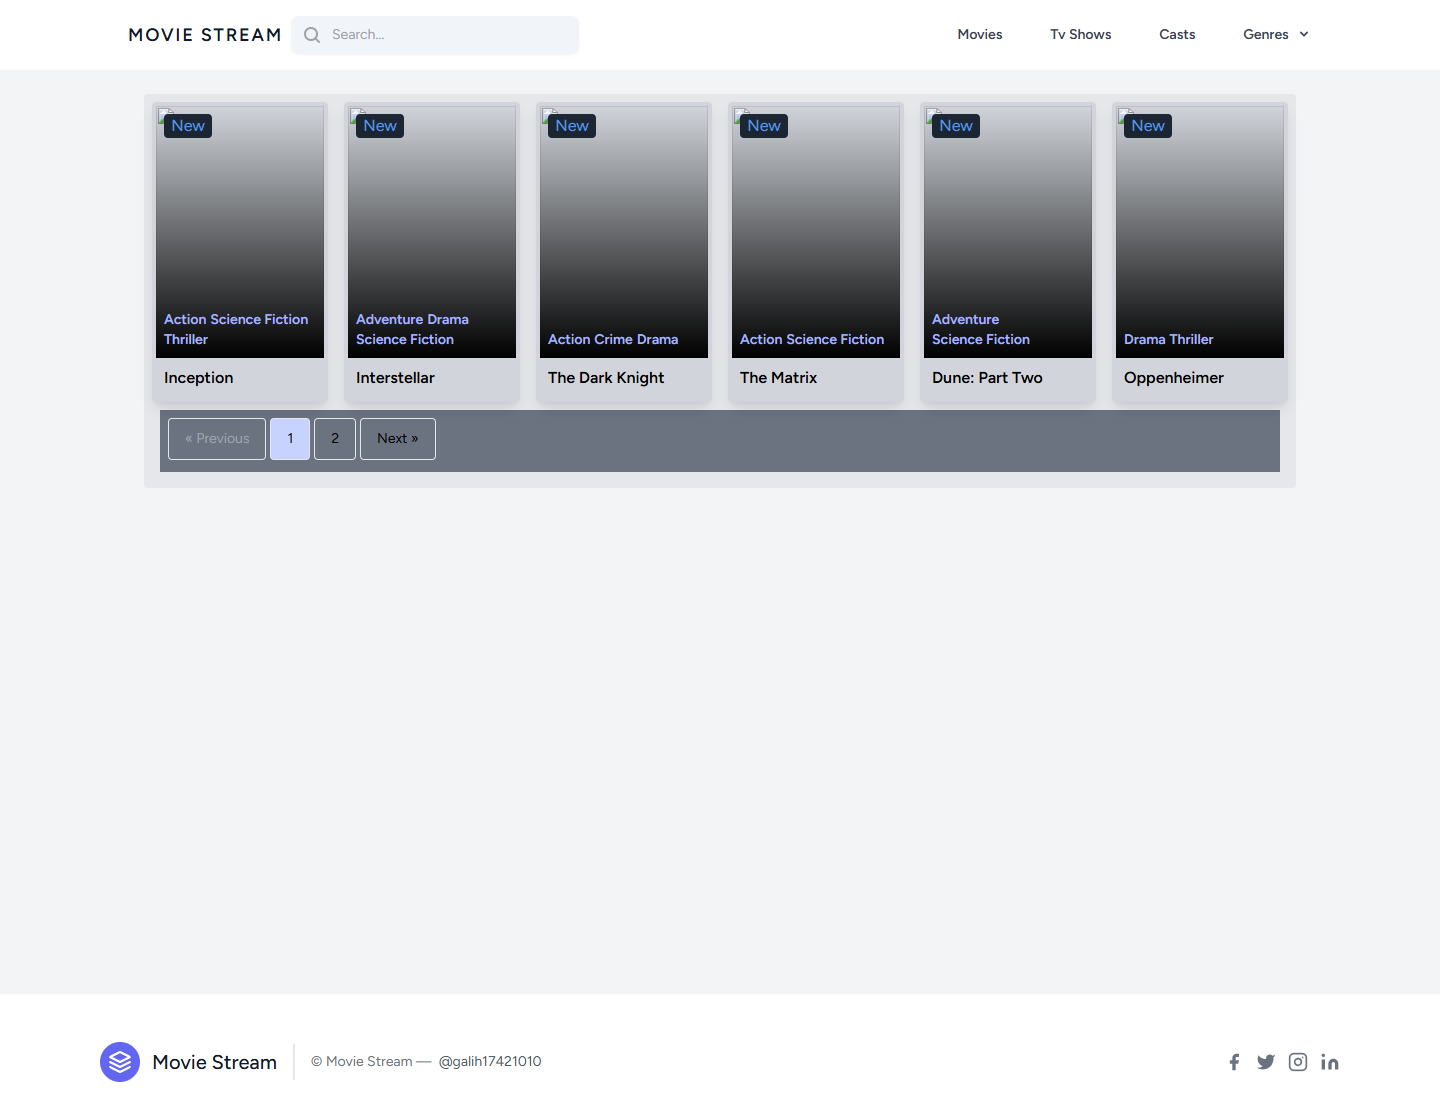
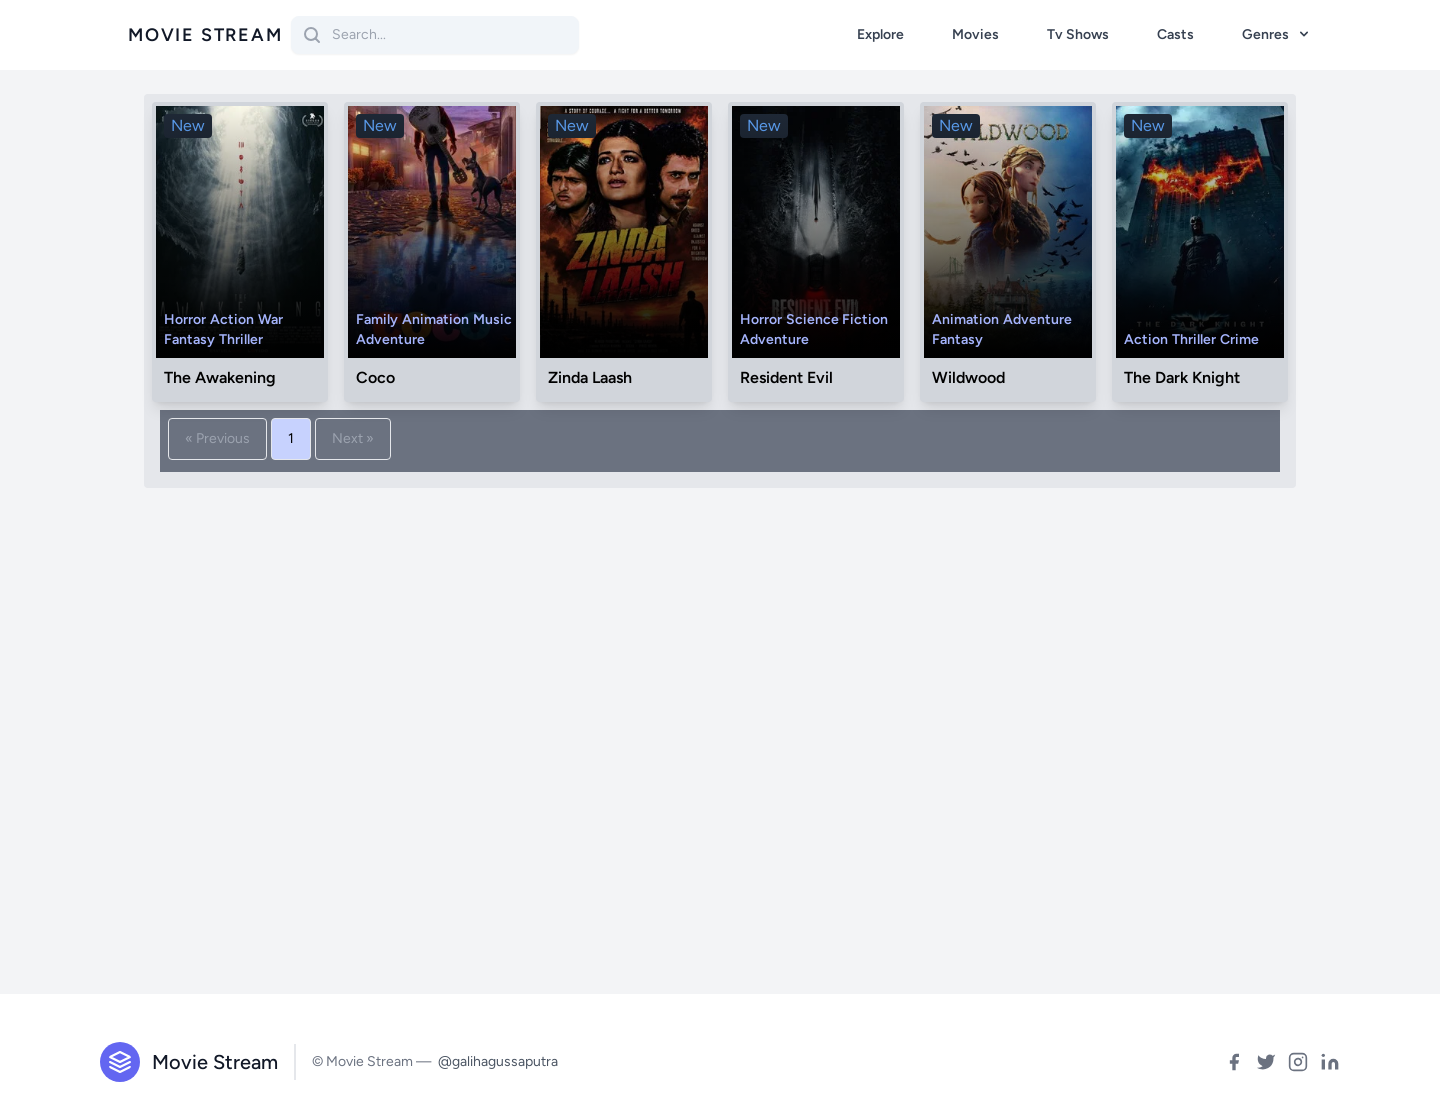
docs: refresh screenshots and document TMDB/Vite setup

diff --git a/README.md b/README.md
@@ -1,6 +1,6 @@
 # MovieStream
 
-MovieStream adalah aplikasi katalog film dan serial TV berbasis web. Aplikasi ini menyediakan halaman publik untuk menjelajahi konten, serta panel admin untuk mengimpor metadata dari TMDB dan mengelola trailer, tautan unduhan, pemeran, genre, dan tag.
+MovieStream adalah aplikasi katalog film dan serial TV berbasis web. Aplikasi ini menyediakan halaman publik untuk menjelajahi konten, halaman **Explore** yang mengambil data langsung (realtime) dari TMDB, serta panel admin untuk mengimpor metadata dari TMDB dan mengelola trailer, tautan unduhan, pemeran, genre, dan tag.
 
 Dibangun dengan **Laravel 10**, **Inertia.js**, **Vue 3**, **Tailwind CSS**, dan **MySQL 8**.
 
@@ -11,6 +11,7 @@ Dibangun dengan **Laravel 10**, **Inertia.js**, **Vue 3**, **Tailwind CSS**, dan
 - [Stack Teknologi](#stack-teknologi)
 - [Menjalankan Aplikasi](#menjalankan-aplikasi)
 - [Konfigurasi Environment](#konfigurasi-environment)
+- [Integrasi TMDB (Realtime)](#integrasi-tmdb-realtime)
 - [Pengujian](#pengujian)
 - [Struktur Proyek](#struktur-proyek)
 - [Keamanan](#keamanan)
@@ -21,7 +22,9 @@ Dibangun dengan **Laravel 10**, **Inertia.js**, **Vue 3**, **Tailwind CSS**, dan
 - Katalog film dan serial TV dengan pencarian, pagination, dan pengurutan.
 - Halaman detail film, serial TV, musim, episode, pemeran, genre, dan tag.
 - Panel admin dengan autentikasi dan otorisasi role `admin`.
-- Impor metadata film, serial TV, musim, episode, pemeran, dan genre dari TMDB.
+- Impor metadata film, serial TV, musim, episode, pemeran, dan genre dari TMDB ke database lokal.
+- Halaman Explore realtime dari TMDB: trending, film populer, serial TV populer, pencarian, detail, trailer, pemeran, dan rekomendasi.
+- Cache respons TMDB untuk mengurangi jumlah request dan mempercepat halaman.
 - Pengelolaan trailer, tautan unduhan, pemeran, genre, dan tag per film.
 - Validasi server-side untuk seluruh input admin.
 - Penghapusan berantai untuk data terkait (season, episode, lampiran, dan pivot).
@@ -30,7 +33,6 @@ Dibangun dengan **Laravel 10**, **Inertia.js**, **Vue 3**, **Tailwind CSS**, dan
 
 ## Tangkapan Layar
 
-> Tangkapan layar menggunakan data demo. Tampilan aktual bergantung pada isi database.
 
 ### Halaman Publik
 
@@ -69,7 +71,7 @@ Dibangun dengan **Laravel 10**, **Inertia.js**, **Vue 3**, **Tailwind CSS**, dan
 
 - [Docker](https://docs.docker.com/get-docker/) dan Docker Compose.
 - Koneksi internet untuk instalasi dependency dan pengambilan gambar dari TMDB.
-- API Key TMDB apabila ingin menggunakan fitur impor konten.
+- TMDB API Read Access Token (v4, disarankan) atau API Key (v3) untuk fitur impor dan Explore realtime.
 
 #### Langkah Menjalankan
 
@@ -86,14 +88,18 @@ Dibangun dengan **Laravel 10**, **Inertia.js**, **Vue 3**, **Tailwind CSS**, dan
    cp .env.example .env
    ```
 
-3. Isi API Key TMDB pada `.env` (opsional, tetapi diperlukan untuk impor konten).
+3. Isi kredensial TMDB pada `.env`. Disarankan memakai **API Read Access Token (v4)** agar autentikasi dikirim melalui header `Authorization: Bearer`.
 
    ```dotenv
-   TMDB_SECRET=api_key_tmdb_anda
+   TMDB_TOKEN=api_read_access_token_v4_anda
+   TMDB_SECRET=
    TMDB_ENDPOINT=https://api.themoviedb.org/3/
+   TMDB_IMAGE_URL=https://image.tmdb.org/t/p/
+   TMDB_LANGUAGE=en-US
+   TMDB_CACHE_TTL=600
    ```
 
-   API Key dapat dibuat melalui [pengaturan API TMDB](https://www.themoviedb.org/settings/api).
+   `TMDB_SECRET` (API Key v3) tetap didukung sebagai fallback jika `TMDB_TOKEN` kosong. Kredensial dapat dibuat melalui [pengaturan API TMDB](https://www.themoviedb.org/settings/api).
 
 4. Jalankan seluruh service.
 
@@ -140,6 +146,41 @@ Dibangun dengan **Laravel 10**, **Inertia.js**, **Vue 3**, **Tailwind CSS**, dan
 
 > **Catatan:** `docker compose down -v` akan menghapus data MySQL yang tersimpan di volume Docker.
 
+#### Troubleshooting Vite di Windows/WSL
+
+Jika browser Windows menampilkan error seperti:
+
+```text
+GET http://0.0.0.0:5173/@vite/client net::ERR_ADDRESS_INVALID
+```
+
+penyebabnya adalah Vite mengiklankan alamat bind `0.0.0.0` ke browser. Konfigurasi proyek sekarang memisahkan alamat bind dan alamat HMR:
+
+- Container tetap listen pada `0.0.0.0:5173` agar port Docker bisa diakses.
+- Browser diarahkan ke `VITE_HMR_HOST` (default `localhost`).
+
+Langkah perbaikan:
+
+1. Pastikan port `5173` dipetakan ke host dan dapat diakses dari Windows.
+2. Jika aplikasi diakses lewat `http://localhost:8000`, biarkan `VITE_HMR_HOST=localhost`.
+3. Jika aplikasi diakses lewat IP WSL (misalnya `http://172.x.x.x:8000`), set `VITE_HMR_HOST` ke IP WSL tersebut pada `.env`.
+4. Recreate container Vite agar file `public/hot` diperbarui.
+
+   ```bash
+   docker compose up -d --force-recreate vite
+   cat public/hot
+   ```
+
+   Isi `public/hot` harus berupa URL yang bisa dibuka browser, misalnya `http://localhost:5173`, bukan `http://0.0.0.0:5173`.
+
+5. Jika masih bermasalah, restart kedua service.
+
+   ```bash
+   docker compose restart vite app
+   ```
+
+
+
 ### Opsi 2: Menjalankan Tanpa Docker
 
 #### Prasyarat
@@ -174,8 +215,12 @@ Dibangun dengan **Laravel 10**, **Inertia.js**, **Vue 3**, **Tailwind CSS**, dan
    DB_USERNAME=root
    DB_PASSWORD=
 
-   TMDB_SECRET=api_key_tmdb_anda
+   TMDB_TOKEN=api_read_access_token_v4_anda
+   TMDB_SECRET=
    TMDB_ENDPOINT=https://api.themoviedb.org/3/
+   TMDB_IMAGE_URL=https://image.tmdb.org/t/p/
+   TMDB_LANGUAGE=en-US
+   TMDB_CACHE_TTL=600
    ```
 
 4. Buat database `stream_app`, lalu jalankan migrasi.
@@ -213,10 +258,47 @@ Variabel penting yang perlu diperhatikan:
 | `DB_DATABASE` | Ya | Nama database, default `stream_app`. |
 | `DB_USERNAME` | Ya | Username database. |
 | `DB_PASSWORD` | Ya | Password database. |
-| `TMDB_SECRET` | Untuk impor | API Key TMDB v3. |
+| `TMDB_TOKEN` | Disarankan | API Read Access Token TMDB v4. Dipakai sebagai Bearer token dan menjadi prioritas utama. |
+| `TMDB_SECRET` | Fallback | API Key TMDB v3. Dipakai jika `TMDB_TOKEN` kosong. |
 | `TMDB_ENDPOINT` | Tidak | Endpoint TMDB, default `https://api.themoviedb.org/3/`. |
+| `TMDB_IMAGE_URL` | Tidak | Basis URL gambar TMDB, default `https://image.tmdb.org/t/p/`. |
+| `TMDB_LANGUAGE` | Tidak | Bahasa metadata, default `en-US`. |
+| `TMDB_CACHE_TTL` | Tidak | Lama cache respons TMDB dalam detik, default `600`. Isi `0` untuk menonaktifkan cache. |
+| `VITE_PORT` | Tidak | Port host untuk Vite dev server, default `5173`. |
+| `VITE_HMR_HOST` | Tidak | Host yang dipakai browser untuk koneksi HMR Vite, default `localhost`. Ubah ke IP WSL/host jika browser Windows mengakses aplikasi lewat IP tersebut. |
 
 File `.env` tidak boleh di-commit. Gunakan `.env.example` sebagai referensi konfigurasi.
+
+## Integrasi TMDB (Realtime)
+
+Aplikasi memakai dua jalur pengambilan data TMDB:
+
+| Kebutuhan | Sumber data | Penyimpanan |
+| --- | --- | --- |
+| Impor film, serial TV, musim, episode, pemeran, dan genre dari panel admin | TMDB API realtime | Disimpan ke database lokal |
+| Halaman Explore, pencarian live, dan bagian Trending di beranda | TMDB API realtime | Hanya cache sementara, tidak disimpan ke database |
+
+### Autentikasi
+
+- Jika `TMDB_TOKEN` diisi, aplikasi mengirim request dengan header `Authorization: Bearer <token>` (API Read Access Token v4).
+- Jika `TMDB_TOKEN` kosong, aplikasi memakai `TMDB_SECRET` sebagai query parameter `api_key` (API Key v3).
+- Jika keduanya kosong, halaman Explore menampilkan peringatan dan pencarian live dinonaktifkan; katalog lokal tetap berjalan.
+
+### Cache
+
+Respons TMDB di-cache menggunakan driver cache Laravel (`CACHE_DRIVER`, default `file`) selama `TMDB_CACHE_TTL` detik. Untuk membersihkan cache setelah mengganti token atau saat data terasa tidak diperbarui:
+
+```bash
+docker compose exec app php artisan cache:clear
+```
+
+Untuk memaksa pengambilan data terbaru tanpa cache sementara, set `TMDB_CACHE_TTL=0` lalu restart container aplikasi.
+
+### Halaman terkait
+
+- `/explore` — trending, film populer, serial TV populer, dan pencarian live.
+- `/explore/movies/{id}` — detail film realtime dari TMDB.
+- `/explore/tv/{id}` — detail serial TV realtime dari TMDB.
 
 ## Pengujian
 
@@ -243,6 +325,7 @@ app/
   Http/Controllers/Admin/       # Controller panel admin
   Http/Controllers/Frontend/    # Controller halaman publik
   Models/                       # Model Eloquent
+  Services/TmdbService.php      # Klien TMDB (v4 token / v3 key, cache)
 database/
   migrations/                   # Skema database
   seeders/                      # Seeder data
@@ -250,6 +333,7 @@ docs/
   screenshots/                  # Gambar dokumentasi
 resources/
   js/Pages/                     # Halaman Inertia + Vue
+  js/Pages/Frontend/Explore/    # Halaman Explore realtime TMDB
   js/Layouts/                   # Layout publik dan admin
 routes/
   web.php                       # Route publik dan admin
@@ -262,8 +346,9 @@ docker-compose.yml              # Konfigurasi service Docker
 
 ## Keamanan
 
-- Jangan pernah meng-commit file `.env` atau API Key TMDB.
-- Gunakan API Key khusus untuk pengembangan dan rotasi key jika pernah terekspos.
+- Jangan pernah meng-commit file `.env`, `TMDB_TOKEN`, atau `TMDB_SECRET`.
+- Gunakan kredensial khusus untuk pengembangan dan rotasi token/key jika pernah terekspos.
+- `TMDB_TOKEN` dikirim melalui header Bearer sehingga tidak muncul di URL/log akses, berbeda dengan `TMDB_SECRET` v3 yang dikirim sebagai query parameter.
 - Panel admin dilindungi oleh middleware `auth`, `verified`, dan role `admin`.
 - Input admin divalidasi di sisi server sebelum disimpan.
 - Gunakan HTTPS dan konfigurasi database yang kuat saat deployment produksi.
